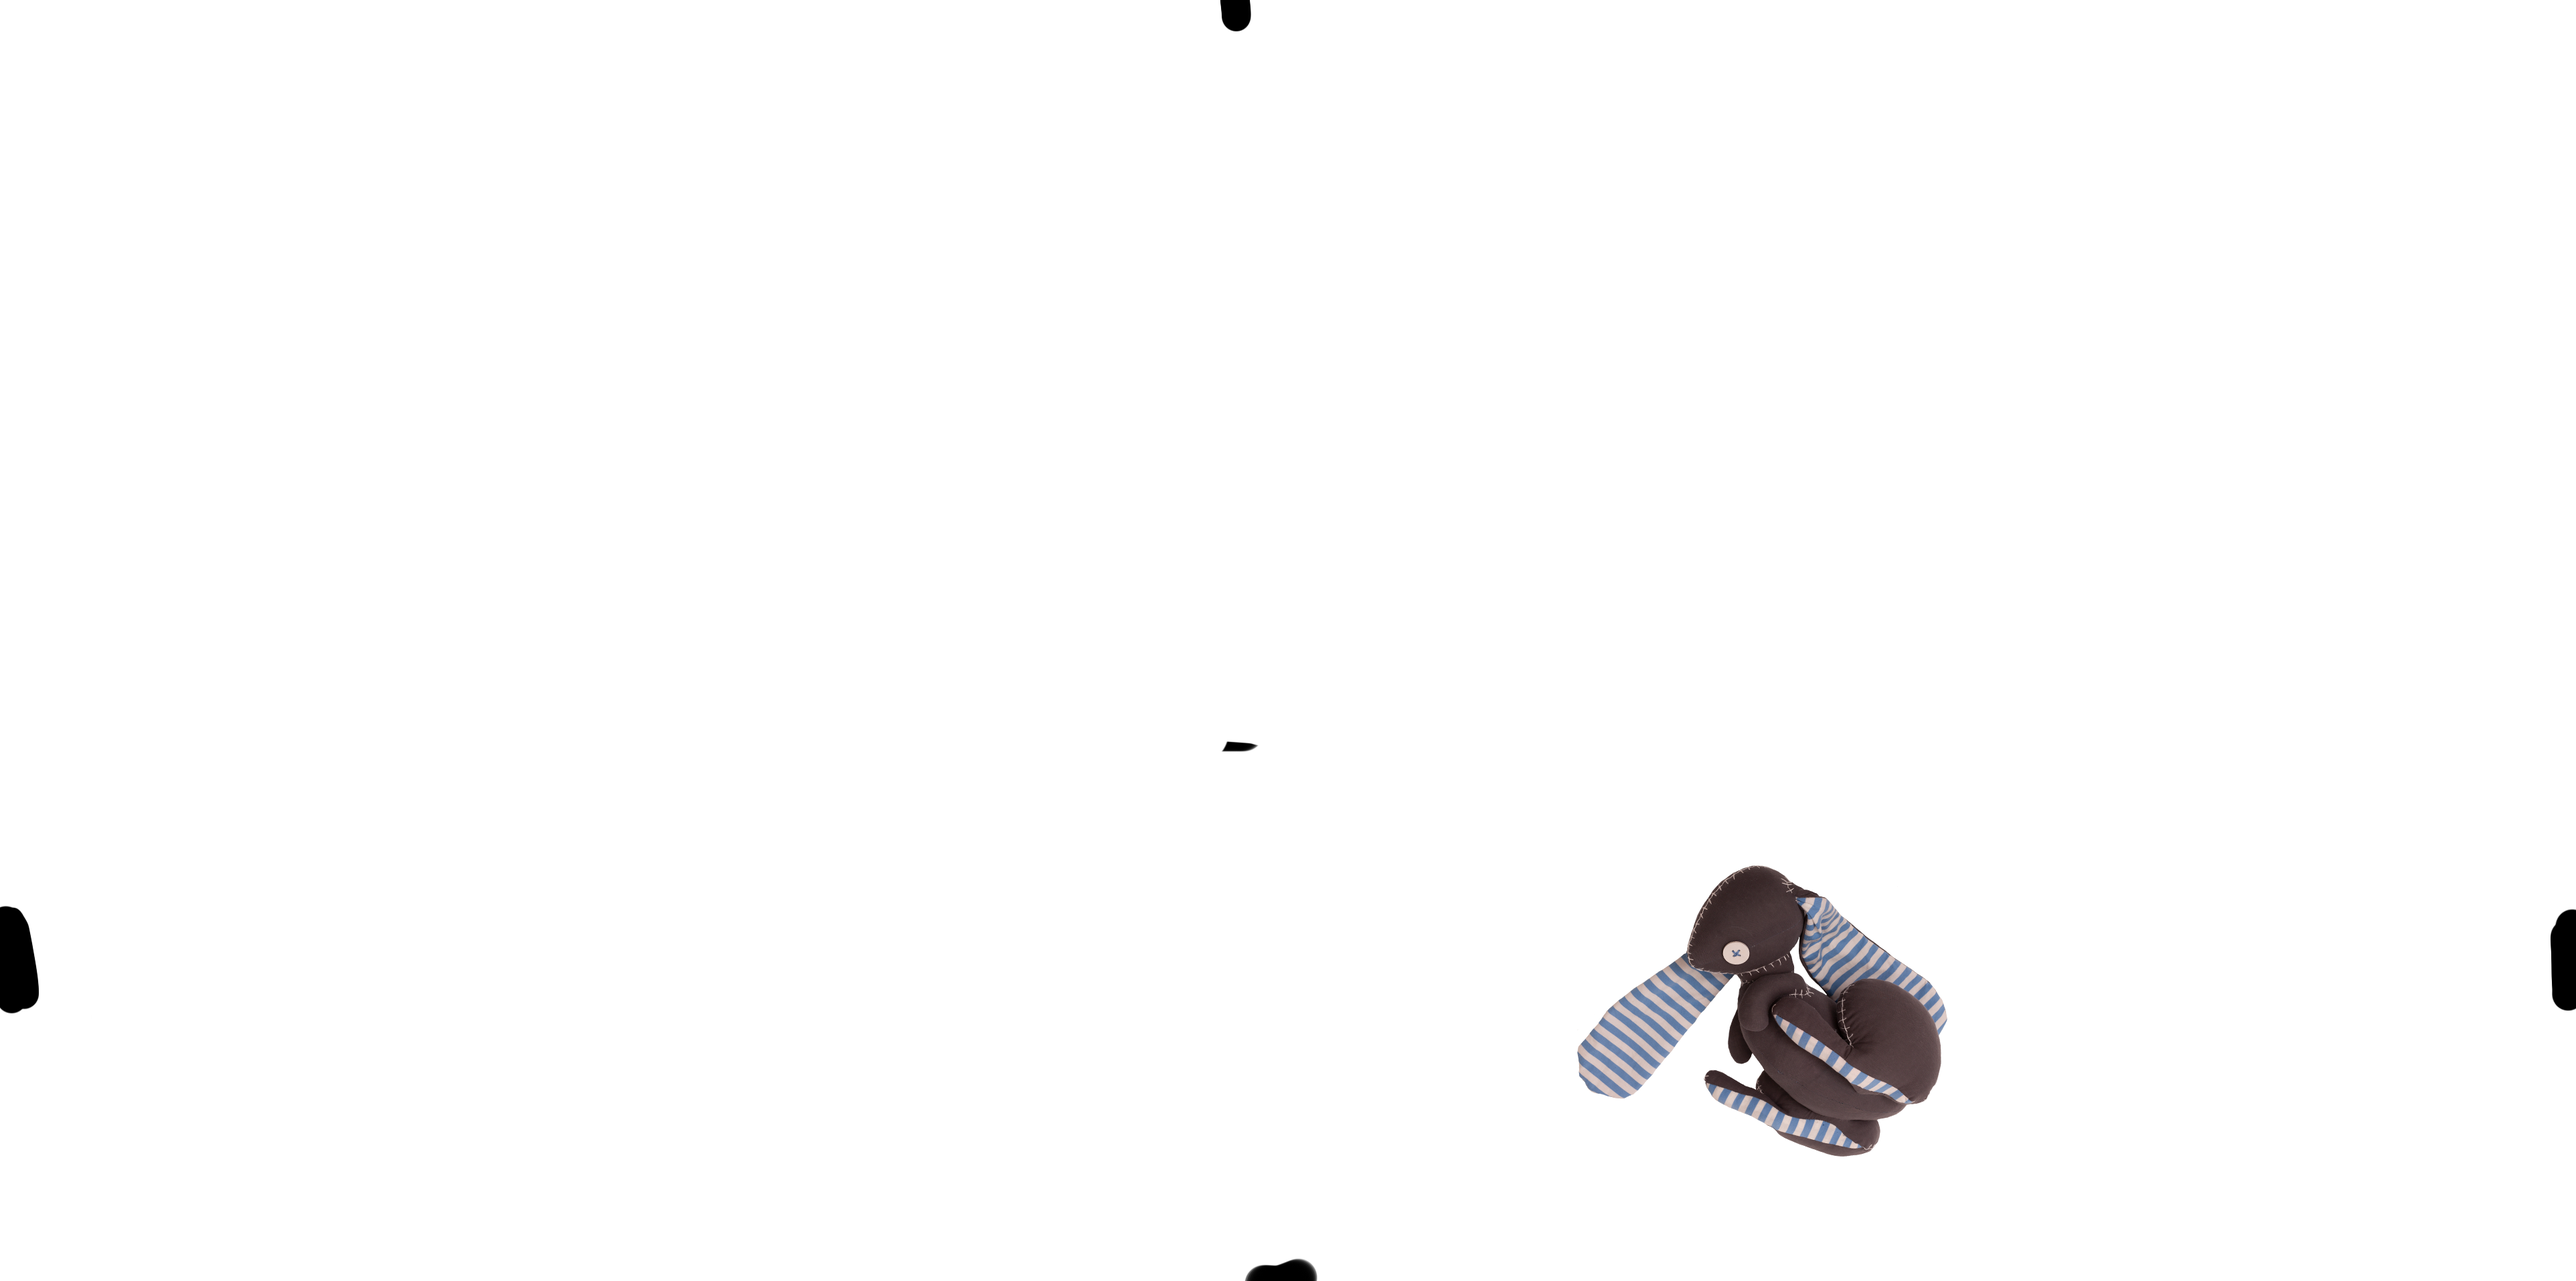
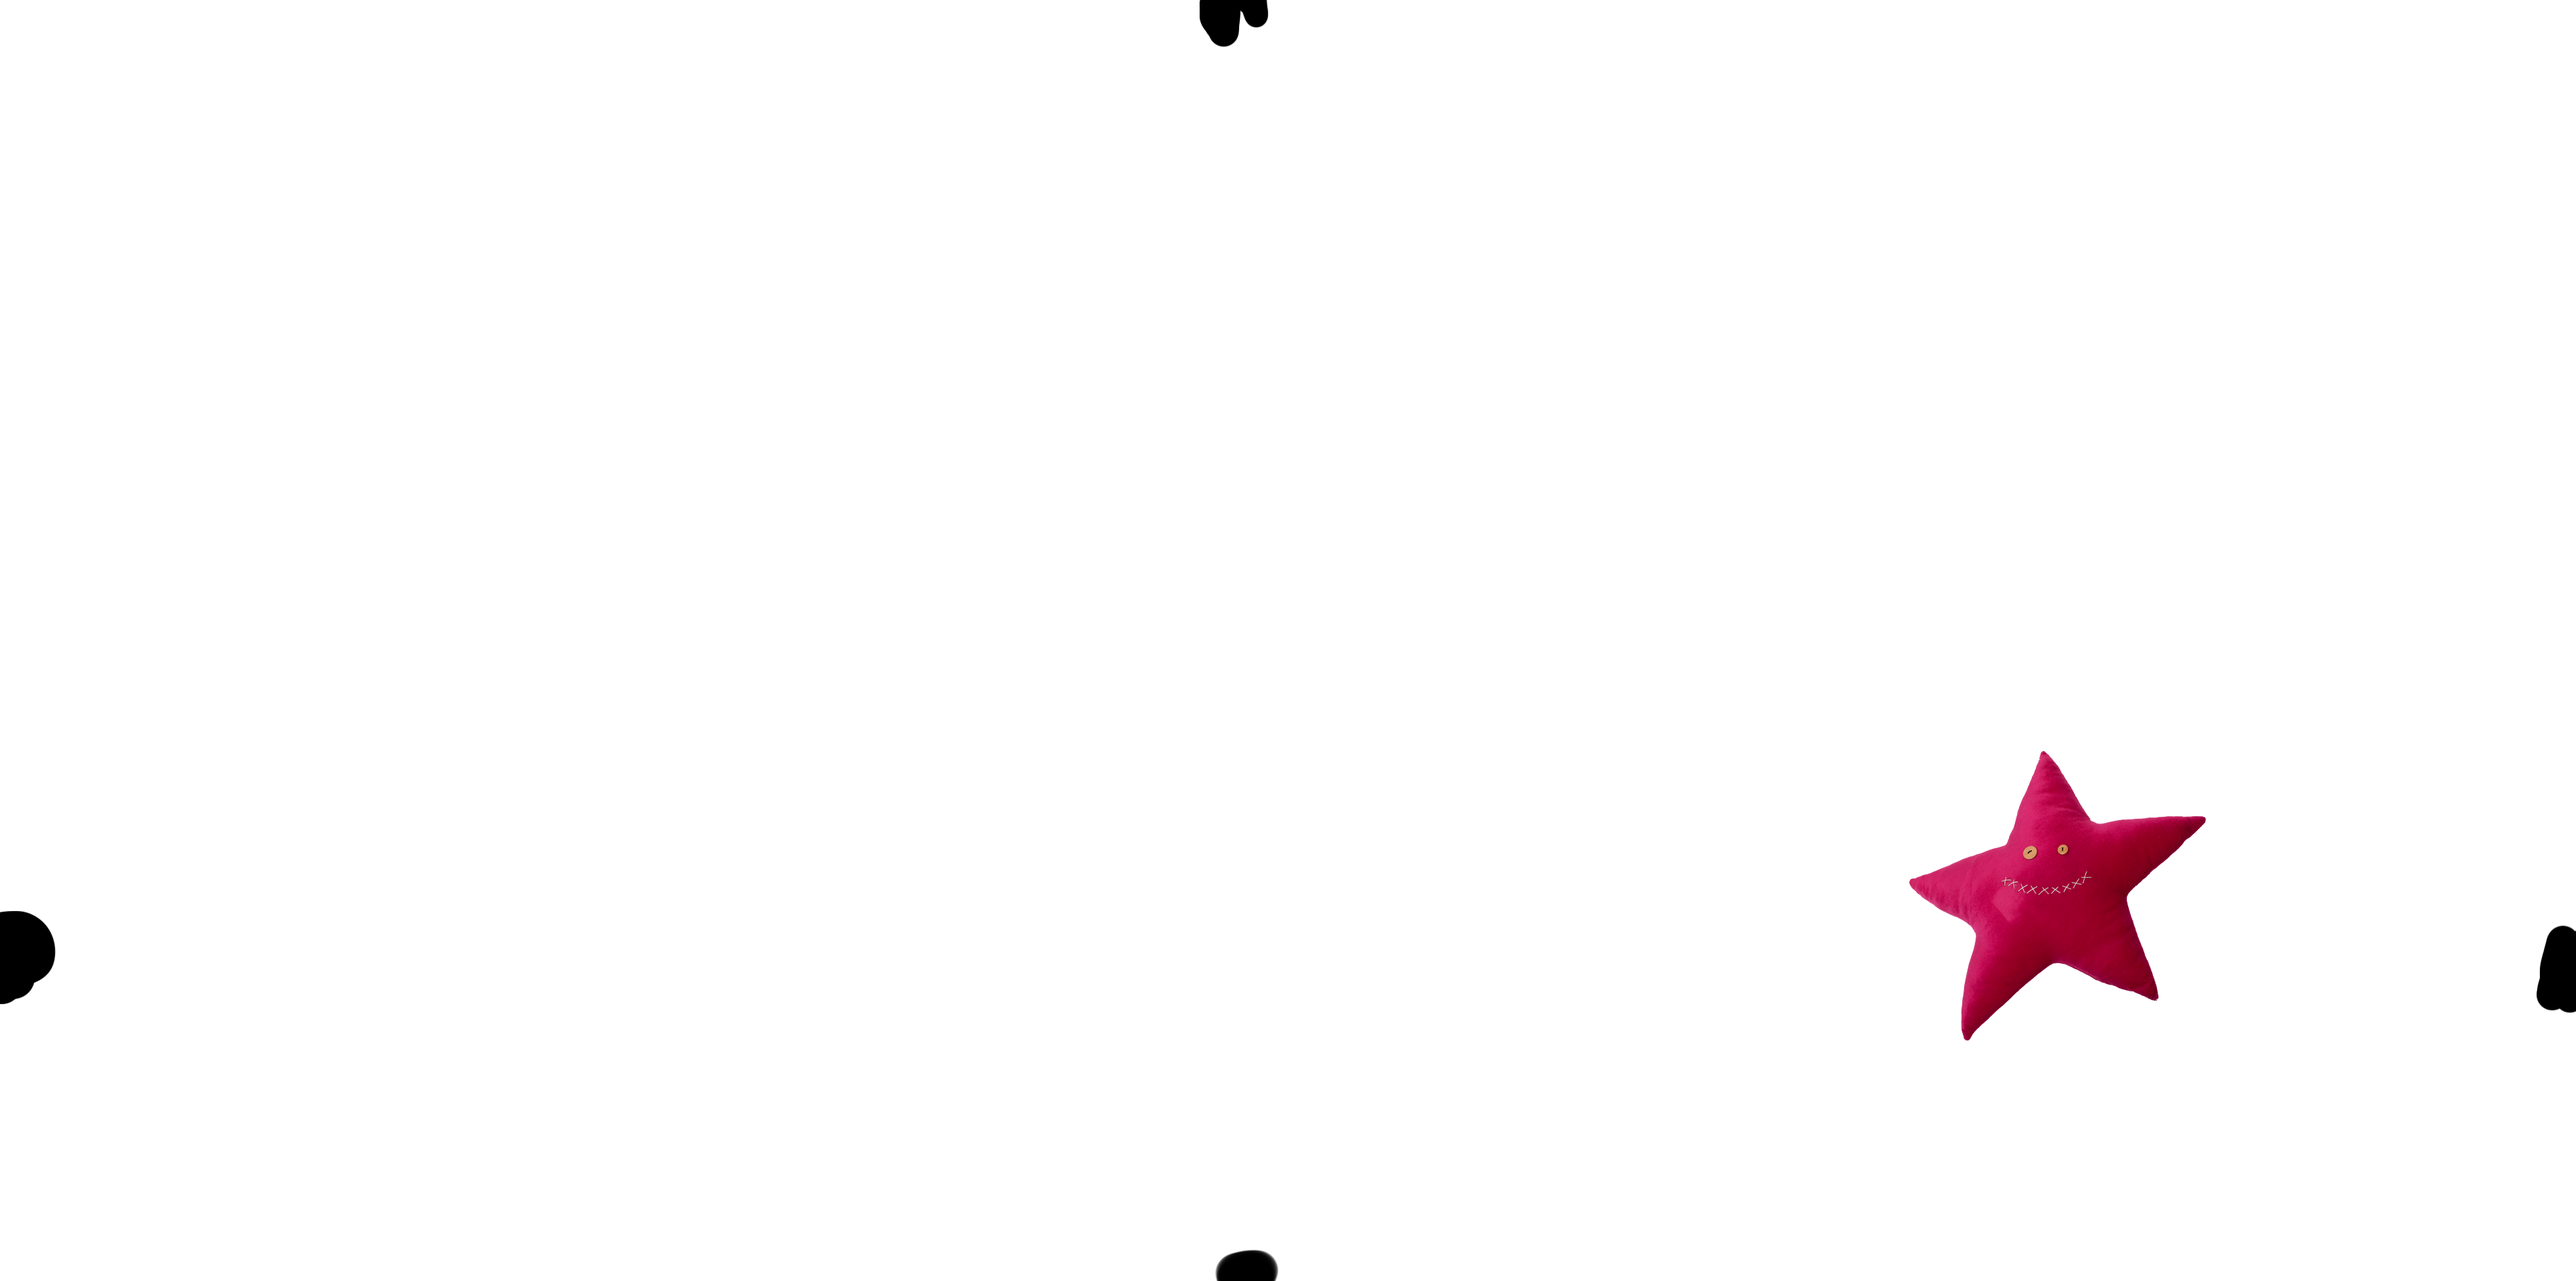
kinda salaboju parallax 5eng :)

diff --git a/5ENG.html b/5ENG.html
@@ -11,21 +11,21 @@
 
 <div class="fons">
 
-		<img id="mantas" class="mantas parallax-layer transparent" src="./images/mantasparallax/septitais.png">
+		<img id="mantas" class="spilvens parallax-layer transparent" src="./images/mantasparallax/septitais.png">
 
-		<img id="mantas1" class="mantas parallax-layer transparent" src="./images/mantasparallax/sestais.png">
+		<img id="mantas1" class="sirds parallax-layer transparent" src="./images/mantasparallax/sestais.png">
 
-		<img id="mantas2" class="mantas parallax-layer transparent" src="./images/mantasparallax/piektais.png">
+		<img id="mantas2" class="pile parallax-layer transparent" src="./images/mantasparallax/piektais.png">
 
-		<img id="mantas3" class="mantas parallax-layer transparent" src="./images/mantasparallax/ceturtais.png">
+		<img id="mantas3" class="zakis parallax-layer transparent" src="./images/mantasparallax/ceturtais.png">
 
-		<img id="mantas4" class="mantas parallax-layer transparent" src="./images/mantasparallax/tresais.png">
+		<img id="mantas4" class="zvaigzne parallax-layer transparent" src="./images/mantasparallax/tresais.png">
  
-		<img id="mantas5" class="mantas parallax-layer transparent" src="./images/mantasparallax/otrais.png">
+		<img id="mantas5" class="zivs parallax-layer transparent" src="./images/mantasparallax/otrais.png">
 
-		<img id="mantas6" class="mantas parallax-layer transparent" src="./images/mantasparallax/pirmais.png">
+		<img id="mantas6" class="cuska parallax-layer transparent" src="./images/mantasparallax/pirmais.png">
 
-		<img id="mantas7" class="mantas parallax-layer transparent" src="./images/mantasparallax/nulltais.png">
+		<img id="mantas7" class="dzeks parallax-layer transparent" src="./images/mantasparallax/nulltais.png">
 
 	
 

diff --git a/css/5.css b/css/5.css
@@ -38,7 +38,7 @@ html, body {
 
 .story2 {
     height: 10%;
-    display: block;
+    display: none;
   font-size: 5vw;
   margin-top: 15%;
   margin-left:10%;
@@ -80,13 +80,65 @@ color: #f1d2cf;
     position: absolute;
 }
 
-.mantas {
+.spilvens {
     position: absolute;
-  max-width: 250%;
+  max-width: 140%;
   height: auto;
   bottom: -17%;
   left: 15%; 
 }
+
+.sirds {
+    position: absolute;
+  max-width: 141%;
+  height: auto;
+  bottom: -18%;
+  left: 15%; 
+}
+.pile {
+    position: absolute;
+  max-width: 142%;
+  height: auto;
+  bottom: -17.5%;
+  left: 15%; 
+}
+.zakis {
+    position: absolute;
+  max-width: 143%;
+  height: auto;
+  bottom: -19%;
+  left: 15%; 
+}
+.zvaigzne {
+    position: absolute;
+  max-width: 141%;
+  height: auto;
+  bottom: -16%;
+  left: 15%; 
+}
+.zivs {
+    position: absolute;
+  max-width: 145%;
+  height: auto;
+  bottom: -16.1%;
+  left: 15%; 
+}
+.cuska {
+    position: absolute;
+  max-width: 146%;
+  height: auto;
+  bottom: -16.5%;
+  left: 15%; 
+}
+.dzeks {
+    position: absolute;
+  max-width: 147%;
+  height: auto;
+  bottom: -17.2%;
+  left: 15%; 
+}
+
+
 
 .augsakreisais {
   max-width: 35%;

diff --git a/scripts/5.js b/scripts/5.js
@@ -34,6 +34,7 @@ $(document).ready(function(){
 
 	$(".story").click(function(){
 		$(".story").css("display", "none")
+		$(".story2").css("display", "block")
 		writethis("it is missing everything \n that makes interactions in real life \n difficult", ".story2")
 
 	})	
